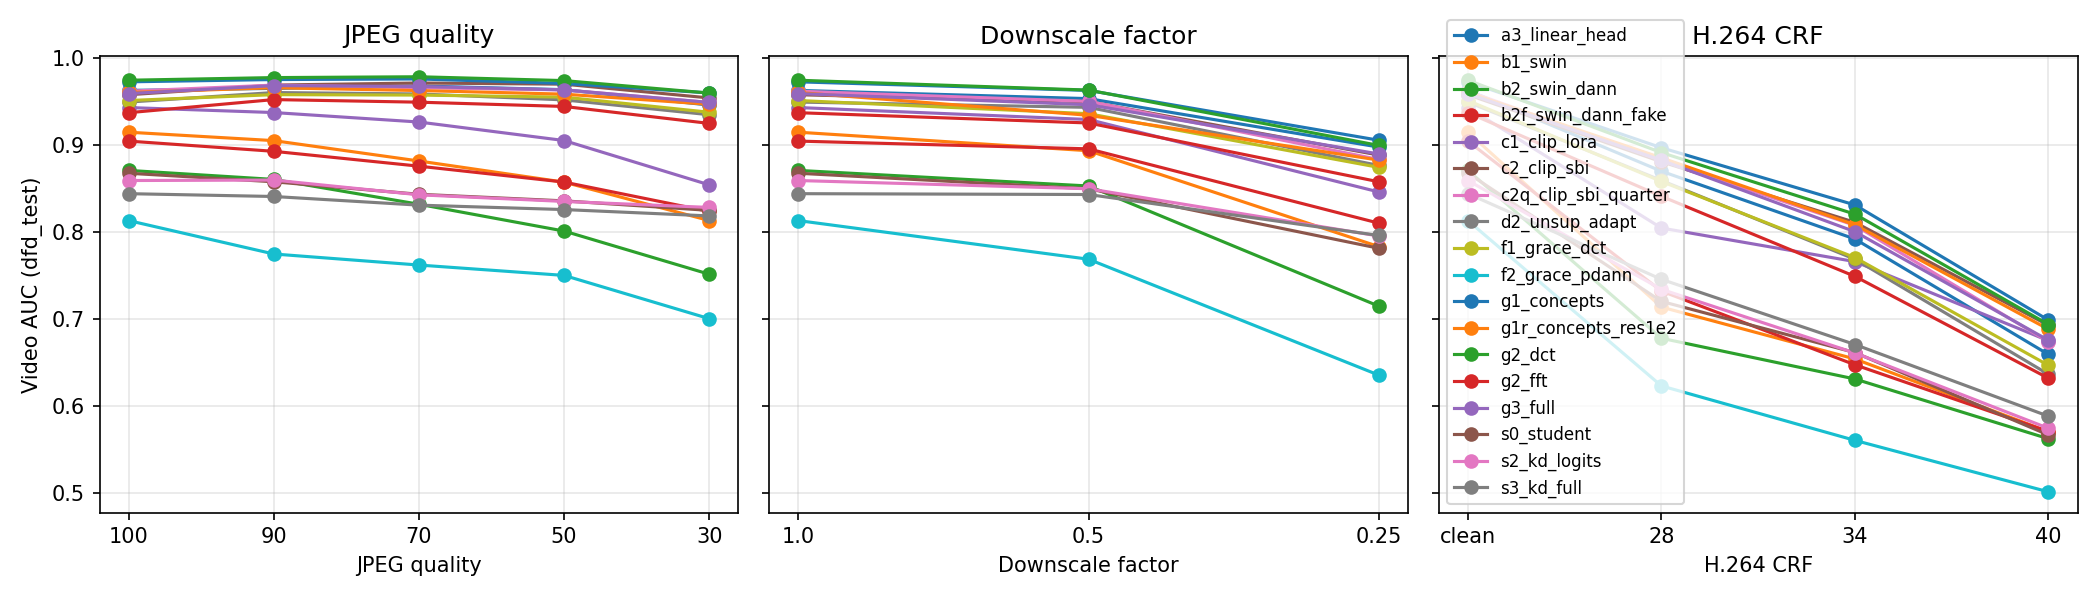
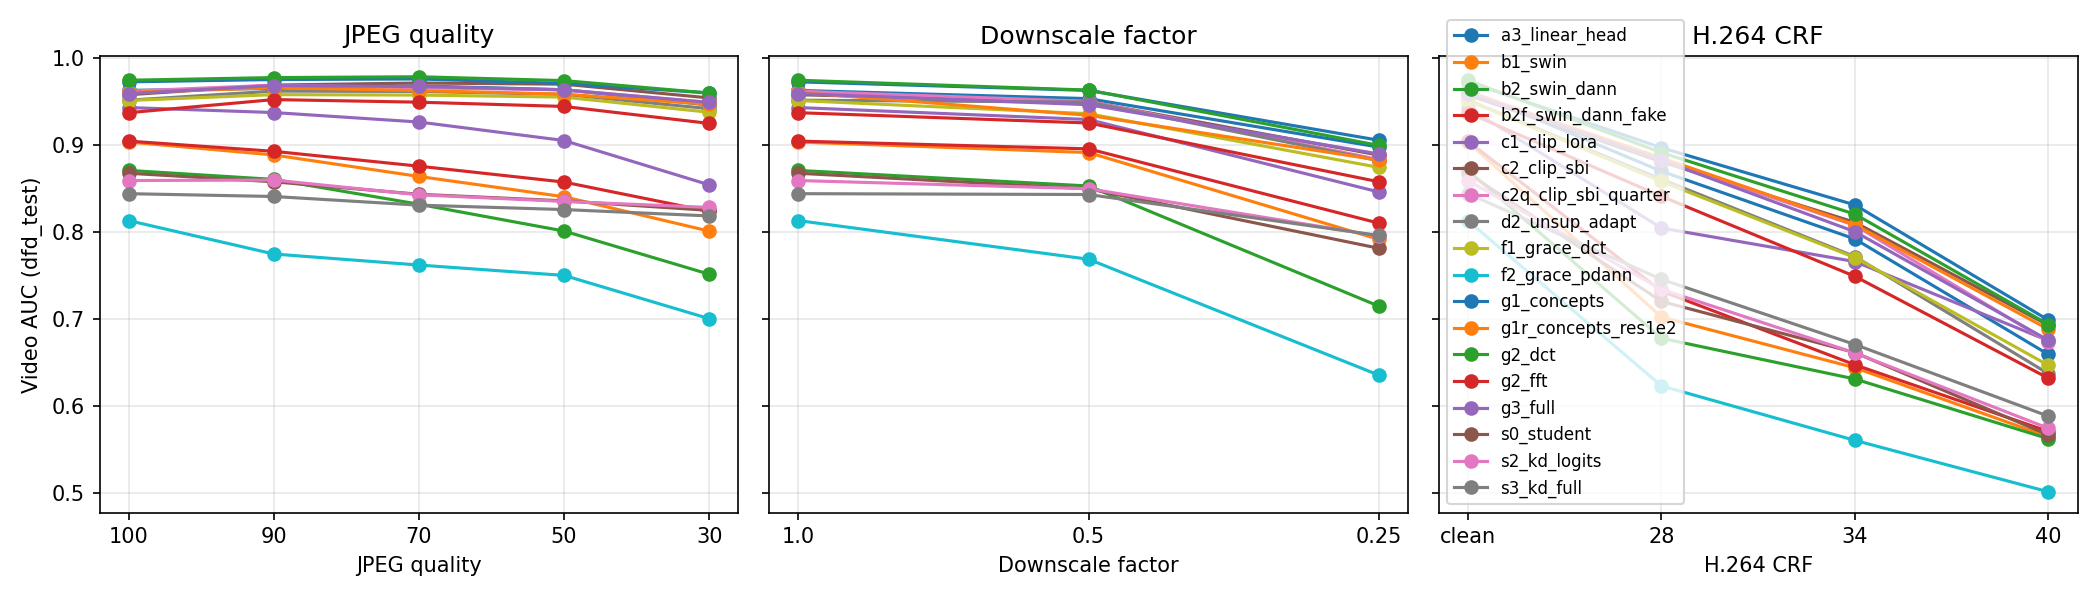
Final eval v4 (870 rows) + tables/summary/release v4; STATUS

diff --git a/results/summary.md b/results/summary.md
@@ -6,24 +6,24 @@
 - Unseen tests: DeepFakeDetection (DFD) and Celeb-DF v2; FF++ test for in-domain. Celeb-DF test mode: interim.
 - Metric: video AUC (mean fake probability over a video's crops); thresholds from FF++ validation only.
 - Models: Swin-B baseline (B1, B2 + DANN), CLIP ViT-L/14 + LoRA (C1), + self-blended images (C2), + concept bottleneck (G1), + frequency branch with gated fusion (G2 DCT / G2-fft), + DANN (G3); final teacher chosen on FF++ val between F1 (G2-DCT + residual 1e-2 + harder val selection) and F2 (F1 + DANN on patch features); EfficientNet-B0 students S0/S2/S3 distilled from the final teacher.
-- Hardware: one RTX 4500 Ada (24 GB); seeds 42, 1 and 2 for the final teacher (F1), B1 and all three students (S0, S2, S3); X1 and D2 two seeds; other models one seed (42). Numbers are seed means where more than one seed exists.
+- Hardware: one RTX 4500 Ada (24 GB); seeds 42, 1 and 2 for the final teacher (F1), B1 and all three students (S0, S2, S3); X1 three seeds, D2 two seeds; other models one seed (42). Numbers are seed means where more than one seed exists.
 
 ## Findings
 
-- Replacing Swin-B with CLIP + LoRA raises cross-dataset video AUC (mean of DFD and Celeb-DF): 0.901 → 0.939 (B1 Swin-B → C1 CLIP + LoRA).
+- Replacing Swin-B with CLIP + LoRA raises cross-dataset video AUC (mean of DFD and Celeb-DF): 0.896 → 0.939 (B1 Swin-B → C1 CLIP + LoRA).
 - Adding self-blended images lowers cross-dataset video AUC (mean of DFD and Celeb-DF): 0.939 → 0.931 (C1 CLIP + LoRA → C2 + SBI).
 - The concept bottleneck raises cross-dataset video AUC (mean of DFD and Celeb-DF): 0.931 → 0.941 (C2 + SBI → G1 + concepts).
 - The DCT branch with gated fusion raises cross-dataset video AUC (mean of DFD and Celeb-DF): 0.941 → 0.948 (G1 + concepts → G2 + DCT fusion).
 - The FFT branch with gated fusion lowers cross-dataset video AUC (mean of DFD and Celeb-DF): 0.941 → 0.924 (G1 + concepts → G2-fft + FFT fusion).
-- DANN on Swin-B with real as a domain (runbook spec) lowers cross-dataset video AUC (mean of DFD and Celeb-DF): 0.901 → 0.870 (B1 Swin-B → B2 Swin-B + DANN (real as a domain)).
-- DANN on Swin-B over fake domains only leaves essentially unchanged (±0.005) cross-dataset video AUC (mean of DFD and Celeb-DF): 0.901 → 0.898 (B1 Swin-B → B2-fake Swin-B + DANN (fake domains only)).
+- DANN on Swin-B with real as a domain (runbook spec) lowers cross-dataset video AUC (mean of DFD and Celeb-DF): 0.896 → 0.870 (B1 Swin-B → B2 Swin-B + DANN (real as a domain)).
+- DANN on Swin-B over fake domains only leaves essentially unchanged (±0.005) cross-dataset video AUC (mean of DFD and Celeb-DF): 0.896 → 0.898 (B1 Swin-B → B2-fake Swin-B + DANN (fake domains only)).
 - Removing the concept head from G3 (A3) lowers cross-dataset video AUC (mean of DFD and Celeb-DF): 0.935 → 0.928 (G3 full teacher (+ DANN) → A3 G3 w/o concepts).
 - Residual penalty 1e-2 + harder val selection on G2-DCT (F1) lowers cross-dataset video AUC (mean of DFD and Celeb-DF): 0.948 → 0.926 (G2 + DCT fusion → F1 G2-DCT + residual 1e-2 + hard-val selection).
 - DANN/MMD on patch features (F2 vs F1) lowers cross-dataset video AUC (mean of DFD and Celeb-DF): 0.926 → 0.764 (F1 G2-DCT + residual 1e-2 + hard-val selection → F2 F1 + DANN/MMD on patch features).
 - Domain terms on patch features instead of z (F2 vs G3) lowers cross-dataset video AUC (mean of DFD and Celeb-DF): 0.935 → 0.764 (G3 full teacher (+ DANN) → F2 F1 + DANN/MMD on patch features).
 - Full distillation over a teacher-free student lowers cross-dataset video AUC (mean of DFD and Celeb-DF): 0.842 → 0.826 (S0 student, no teacher → S3 student, full KD).
 - Under JPEG quality 30, raises cross-dataset video AUC (mean of DFD and Celeb-DF) at jpeg:30: 0.827 → 0.833 (S0 student, no teacher → S3 student, full KD).
-- Under JPEG quality 30, raises cross-dataset video AUC (mean of DFD and Celeb-DF) at jpeg:30: 0.823 → 0.833 (B1 Swin-B → S3 student, full KD).
+- Under JPEG quality 30, raises cross-dataset video AUC (mean of DFD and Celeb-DF) at jpeg:30: 0.817 → 0.833 (B1 Swin-B → S3 student, full KD).
 - The S3 student has 4.71 M parameters and 0.39 GFLOPs vs 306.94 M and 81.46 GFLOPs for the teacher (f1_grace_dct); ONNX CPU latency 4.2 ms per face.
 - Pointing game on held-out SBI blends: F1 c1 0.52, F1 region 0.94, B1 Grad-CAM 0.15, C1 rollout 0.01, S3 c1 0.72, random 0.25.
 

diff --git a/results/tables.md b/results/tables.md
@@ -6,7 +6,7 @@ Generated by `scripts/make_tables.py` from the run folders and `results/*.csv`. 
 
 | Model | FF++ test | DFD | Celeb-DF | Cross-dataset |
 | --- | --- | --- | --- | --- |
-| B1 Swin-B | 0.997 ± 0.002 | 0.914 ± 0.004 | 0.889 ± 0.010 | 0.901 ± 0.003 |
+| B1 Swin-B | 0.997 ± 0.002 | 0.903 ± 0.016 | 0.889 ± 0.009 | 0.896 ± 0.008 |
 | B2 Swin-B + DANN (real as a domain) | 0.995 | 0.870 | 0.870 | 0.870 |
 | B2-fake Swin-B + DANN (fake domains only) | 0.999 | 0.904 | 0.892 | 0.898 |
 | C1 CLIP + LoRA | 1.000 | 0.943 | 0.936 | 0.939 |
@@ -21,14 +21,14 @@ Generated by `scripts/make_tables.py` from the run folders and `results/*.csv`. 
 | S0 student, no teacher | 0.984 ± 0.004 | 0.867 ± 0.022 | 0.817 ± 0.028 | 0.842 ± 0.025 |
 | S2 student, logit KD | 0.984 ± 0.006 | 0.859 ± 0.008 | 0.803 ± 0.005 | 0.831 ± 0.006 |
 | S3 student, full KD | 0.978 ± 0.005 | 0.844 ± 0.011 | 0.808 ± 0.021 | 0.826 ± 0.010 |
-| D2 G3 + unsupervised adaptation to Celeb-DF | 0.999 | 0.949 | 0.874 | 0.911 |
-| X1 G3 trained on FF++ + DFD (DFD not a test set) | 0.998 ± 0.001 | – | 0.959 ± 0.009 | – |
+| D2 G3 + unsupervised adaptation to Celeb-DF | 0.999 ± 0.000 | 0.951 ± 0.002 | 0.874 ± 0.001 | 0.913 ± 0.001 |
+| X1 G3 trained on FF++ + DFD (DFD not a test set) | 0.998 ± 0.001 | – | 0.959 ± 0.007 | – |
 
 ### Frame AUC
 
 | Model | FF++ test | DFD | Celeb-DF | Cross-dataset |
 | --- | --- | --- | --- | --- |
-| B1 Swin-B | 0.991 ± 0.002 | 0.875 ± 0.004 | 0.828 ± 0.014 | 0.851 ± 0.005 |
+| B1 Swin-B | 0.986 ± 0.007 | 0.862 ± 0.018 | 0.833 ± 0.014 | 0.848 ± 0.007 |
 | B2 Swin-B + DANN (real as a domain) | 0.981 | 0.822 | 0.784 | 0.803 |
 | B2-fake Swin-B + DANN (fake domains only) | 0.990 | 0.881 | 0.851 | 0.866 |
 | C1 CLIP + LoRA | 0.995 | 0.883 | 0.835 | 0.859 |
@@ -43,8 +43,8 @@ Generated by `scripts/make_tables.py` from the run folders and `results/*.csv`. 
 | S0 student, no teacher | 0.963 ± 0.002 | 0.821 ± 0.014 | 0.748 ± 0.021 | 0.785 ± 0.017 |
 | S2 student, logit KD | 0.963 ± 0.001 | 0.826 ± 0.005 | 0.738 ± 0.000 | 0.782 ± 0.002 |
 | S3 student, full KD | 0.960 ± 0.006 | 0.820 ± 0.007 | 0.748 ± 0.016 | 0.784 ± 0.006 |
-| D2 G3 + unsupervised adaptation to Celeb-DF | 0.985 | 0.895 | 0.786 | 0.840 |
-| X1 G3 trained on FF++ + DFD (DFD not a test set) | 0.988 ± 0.003 | – | 0.883 ± 0.015 | – |
+| D2 G3 + unsupervised adaptation to Celeb-DF | 0.987 ± 0.002 | 0.894 ± 0.001 | 0.786 ± 0.001 | 0.840 ± 0.000 |
+| X1 G3 trained on FF++ + DFD (DFD not a test set) | 0.986 ± 0.004 | – | 0.884 ± 0.012 | – |
 
 ## 2. Ablation (each row changes one thing from the row above)
 
@@ -66,7 +66,7 @@ G2-fft is compared with G1; A3 is compared with G3; F1 with G2-DCT; F2 with F1. 
 
 | Model | clean | jpeg:30 | down:0.25 | h264:40 |
 | --- | --- | --- | --- | --- |
-| B1 Swin-B | 0.901 ± 0.003 | 0.823 ± 0.021 | 0.791 ± 0.001 | 0.590 ± 0.002 |
+| B1 Swin-B | 0.896 ± 0.008 | 0.817 ± 0.019 | 0.803 ± 0.017 | 0.596 ± 0.008 |
 | C1 CLIP + LoRA | 0.939 | 0.820 | 0.861 | 0.609 |
 | G3 full teacher (+ DANN) | 0.935 | 0.927 | 0.912 | 0.639 |
 | F1 G2-DCT + residual 1e-2 + hard-val selection | 0.926 ± 0.008 | 0.923 ± 0.006 | 0.897 ± 0.007 | 0.643 ± 0.015 |
@@ -80,7 +80,7 @@ Full grid: `results/robustness.csv`; curves: `results/fig_robustness_<split>.png
 
 | Model | Params (M) | GFLOPs | GPU frames/s | CPU ms (ONNX, bs 1) | Cross clean | Cross jpeg:50 | Concept ρ vs teacher | Top-map IoU vs teacher |
 | --- | --- | --- | --- | --- | --- | --- | --- | --- |
-| B1 Swin-B | 86.75 | 15.43 | 640.3 | nan | 0.901 ± 0.003 | 0.862 ± 0.021 | – | – |
+| B1 Swin-B | 86.75 | 15.43 | 640.3 | nan | 0.896 ± 0.008 | 0.851 ± 0.024 | – | – |
 | F1 G2-DCT + residual 1e-2 + hard-val selection | 306.94 | 81.46 | 286.2 | nan | 0.926 ± 0.008 | 0.949 ± 0.008 | – | – |
 | S0 student, no teacher | 4.71 | 0.39 | 3834.6 | nan | 0.842 ± 0.025 | 0.839 ± 0.012 | 0.683 ± 0.038 | 0.149 ± 0.008 |
 | S2 student, logit KD | – | – | – | – | 0.831 ± 0.006 | 0.845 ± 0.008 | – | – |

diff --git a/STATUS.md b/STATUS.md
@@ -3,7 +3,7 @@
 ## Currently running
 
 - Queue runner: `scripts/start_queue.ps1` (detached; restart with `powershell -ExecutionPolicy Bypass -File scripts/start_queue.ps1`). State: `runs/_queue/state.json`, logs: `runs/_queue/<job>.log`, heartbeat: `runs/_queue/heartbeat.txt`.
-- GPU job: `final_eval_all_v4` (started 01:18), then `make_tables_v4` (see queue.yaml). All runbook tasks are done; these are extra seeds and refreshes.
+- GPU job: `eval_x1_robustness` (started 02:28), then `d2_unsup_adapt_s2` (see queue.yaml). All runbook tasks are done; these are extra seeds and evaluations.
 - Watch live: `Get-Content runs\_queue\<job>.log -Wait -Tail 20` (queue: `runs\_queue\runner.log`).
 - B1 epoch time with the GPU to itself: ~4 min (198 img/s).
 
@@ -185,3 +185,4 @@ See `splits/counts.md` for the full table.
 - 2026-11-19 21:22 B1 seed 2 done: FF++ 0.9963 / DFD 0.8805 / Celeb-DF 0.8887 (best epoch 1). **B1 over 3 seeds: FF++ 0.997, DFD 0.903±0.020, Celeb-DF 0.889±0.010 vs F1 0.997 / 0.951±0.004 / 0.901±0.017**: F1 is clearly ahead on DFD (+0.048), level within noise on Celeb-DF. Next: X1 seed 2.
 - 2026-11-19 23:20 X1 seed 2 done: FF++ 0.9983, Celeb-DF 0.9580. **X1 over 3 seeds: Celeb-DF 0.958±0.009 vs F1 (FF++ only) 0.901±0.017** (+0.057). Next: D2 seed 1.
 - 2026-11-20 01:18 D2 seed 1 done: FF++ 0.9995 / DFD 0.9532 / Celeb-DF 0.8751; no collapse (SBI-test concept AUCs match F1). **D2 over 2 seeds: Celeb-DF 0.874 (0.874, 0.875) vs F1 0.901±0.017**: the negative result replicates; unsupervised Celeb-DF adaptation costs about 0.03 on Celeb-DF. Next: final_eval_all_v4, make_tables_v4.
+- 2026-11-20 02:28 final_eval_all_v4 (870 rows; B1 now 3 seeds, D2 2) and make_tables_v4 (tables, summary, release) done. Summary: B1 3-seed cross-dataset mean at jpeg:30 is 0.817 (S3 0.833). Next: X1 robustness on FF++/Celeb-DF, then D2 seed 2.
